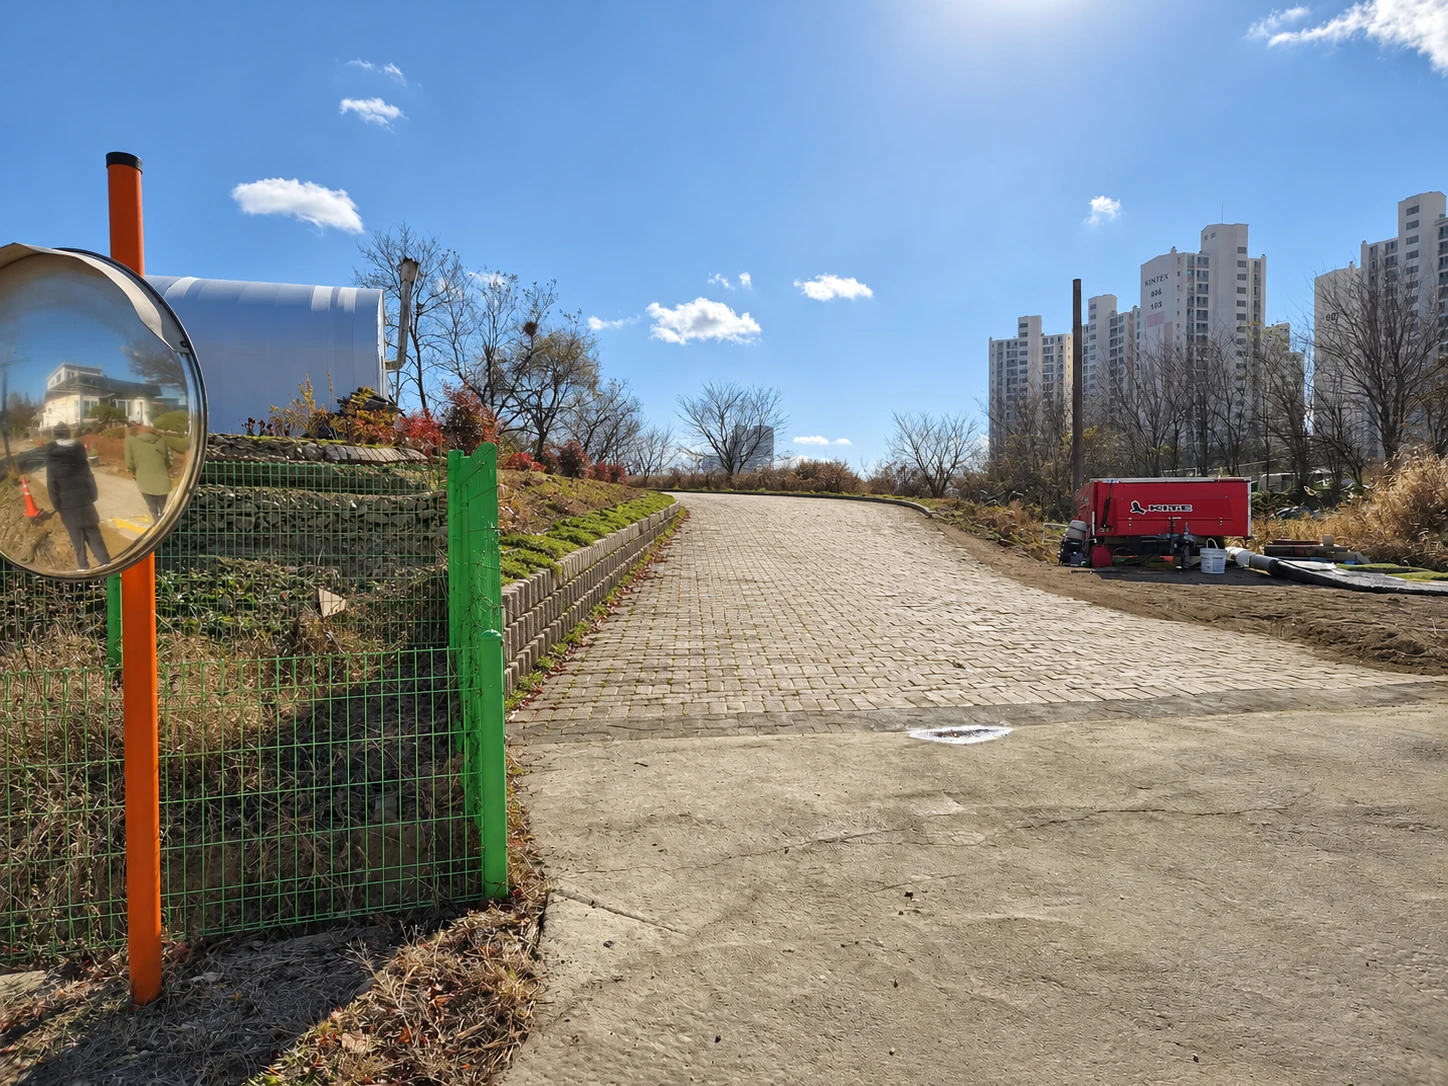
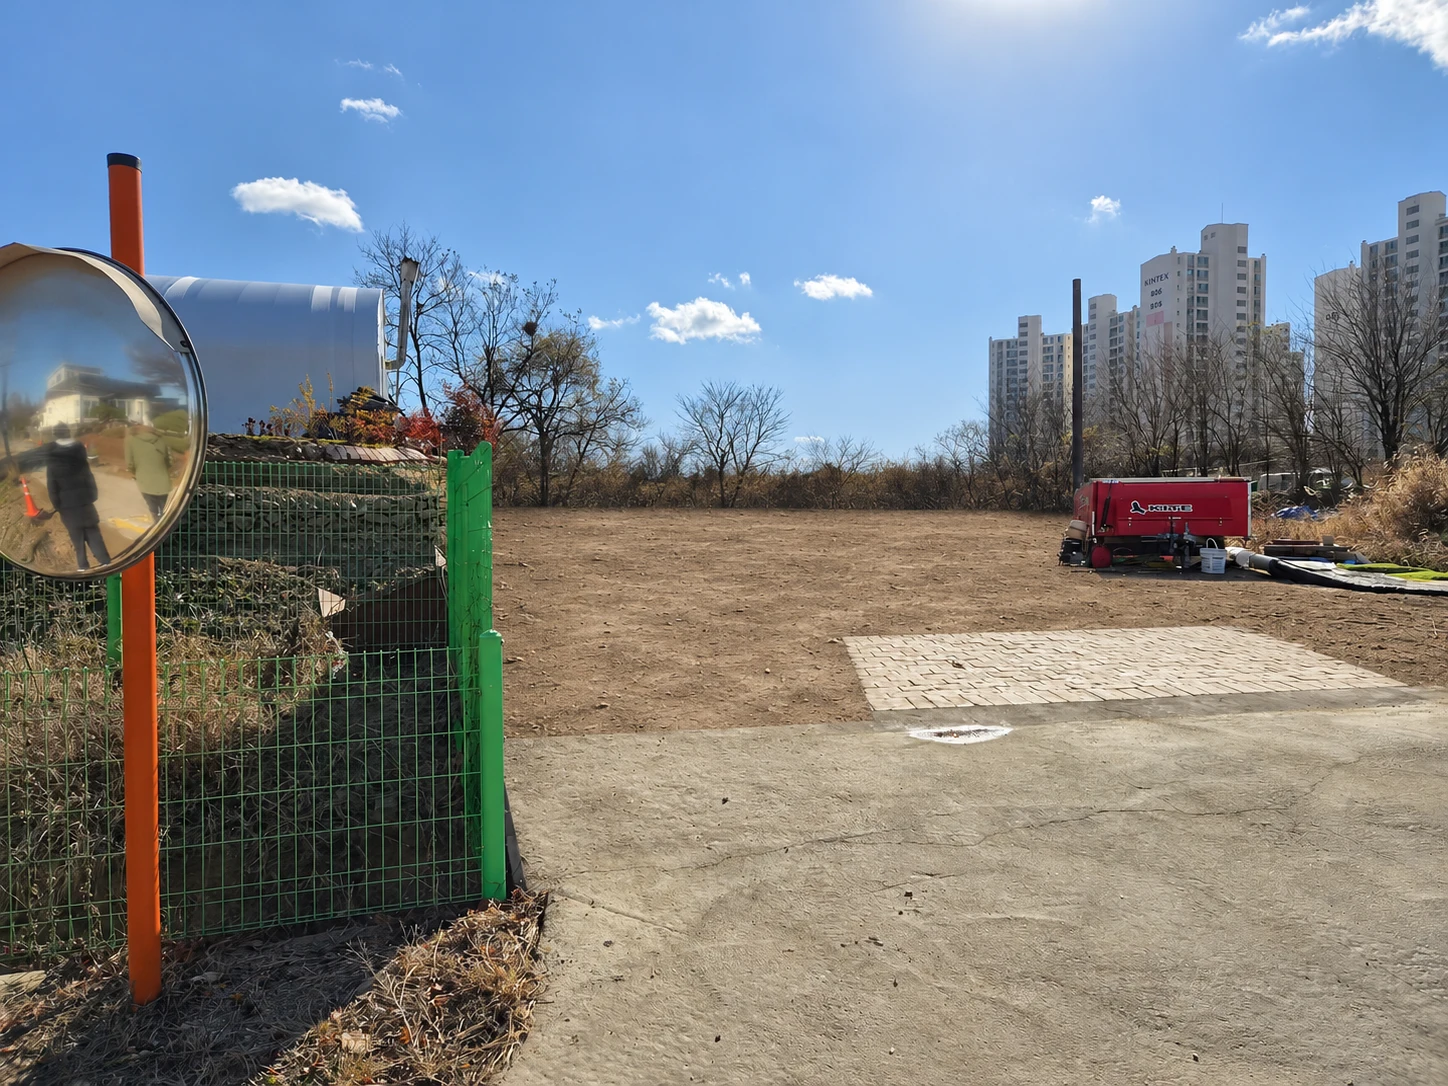
Correct upper entry terrain to level dirt

diff --git a/index.html b/index.html
@@ -1,3 +1,3 @@
-<!doctype html><html lang="ko"><head><meta charset="utf-8"><meta name="viewport" content="width=device-width,initial-scale=1,viewport-fit=cover"><meta name="theme-color" content="#e9e2d6"><title>iHKG · 길드하우스</title><link rel="stylesheet" href="style.css"><link rel="stylesheet" href="camp-map.css?v=20261127-travel"><link rel="stylesheet" href="shop.css?v=20261117-shop2"><link rel="stylesheet" href="signup.css?v=20261125-3"><link rel="stylesheet" href="event-layout.css?v=calendar1"></head><body><div id="app"><header><button id="mode" aria-label="지도와 목록 전환">☷</button><strong id="title">길드하우스 · Center Camp</strong><button id="filter" aria-label="필터">☷</button></header><main id="main"></main><div id="floating"><button id="fav" aria-label="즐겨찾기만 보기">♡</button></div><footer><nav aria-label="메인 메뉴"><button data-tab="map" aria-label="Map"><svg viewBox="0 0 24 24" aria-hidden="true"><path d="M3 5l6-2 6 2 6-2v16l-6 2-6-2-6 2ZM9 3v16M15 5v16"/></svg><small>Map</small></button><button data-tab="events" aria-label="Events"><svg viewBox="0 0 24 24" aria-hidden="true"><rect x="3" y="5" width="18" height="16" rx="2"/><path d="M7 3v4m10-4v4M3 10h18m-13 4h2m3 0h2m-7 3h2"/></svg><small>Events</small></button><button data-tab="shop" aria-label="Shop"><svg viewBox="0 0 24 24" aria-hidden="true"><path d="M5 8h14l2 13H3ZM8 9V6a4 4 0 0 1 8 0v3"/></svg><small>Shop</small></button><button data-tab="more" aria-label="More">•••<small>More</small></button></nav></footer></div><dialog id="detail"><div id="detailbody"></div></dialog><script src="site-places.js"></script><script src="shop.js?v=20261126-led1"></script><script src="camp-map.js?v=20261127-travel"></script><script src="events-data.js?v=names7"></script><script src="signup-config.js?v=20261125-1"></script><script src="signup.js?v=20261125-confirm6"></script><script src="app.js?v=events-byline2"></script></body></html>
+<!doctype html><html lang="ko"><head><meta charset="utf-8"><meta name="viewport" content="width=device-width,initial-scale=1,viewport-fit=cover"><meta name="theme-color" content="#e9e2d6"><title>iHKG · 길드하우스</title><link rel="stylesheet" href="style.css"><link rel="stylesheet" href="camp-map.css?v=20261127-travel"><link rel="stylesheet" href="shop.css?v=20261117-shop2"><link rel="stylesheet" href="signup.css?v=20261125-3"><link rel="stylesheet" href="event-layout.css?v=calendar1"></head><body><div id="app"><header><button id="mode" aria-label="지도와 목록 전환">☷</button><strong id="title">길드하우스 · Center Camp</strong><button id="filter" aria-label="필터">☷</button></header><main id="main"></main><div id="floating"><button id="fav" aria-label="즐겨찾기만 보기">♡</button></div><footer><nav aria-label="메인 메뉴"><button data-tab="map" aria-label="Map"><svg viewBox="0 0 24 24" aria-hidden="true"><path d="M3 5l6-2 6 2 6-2v16l-6 2-6-2-6 2ZM9 3v16M15 5v16"/></svg><small>Map</small></button><button data-tab="events" aria-label="Events"><svg viewBox="0 0 24 24" aria-hidden="true"><rect x="3" y="5" width="18" height="16" rx="2"/><path d="M7 3v4m10-4v4M3 10h18m-13 4h2m3 0h2m-7 3h2"/></svg><small>Events</small></button><button data-tab="shop" aria-label="Shop"><svg viewBox="0 0 24 24" aria-hidden="true"><path d="M5 8h14l2 13H3ZM8 9V6a4 4 0 0 1 8 0v3"/></svg><small>Shop</small></button><button data-tab="more" aria-label="More">•••<small>More</small></button></nav></footer></div><dialog id="detail"><div id="detailbody"></div></dialog><script src="site-places.js"></script><script src="shop.js?v=20261126-led1"></script><script src="camp-map.js?v=20261127-upper-flat"></script><script src="events-data.js?v=names7"></script><script src="signup-config.js?v=20261125-1"></script><script src="signup.js?v=20261125-confirm6"></script><script src="app.js?v=events-byline2"></script></body></html>
 
 

diff --git a/camp-map.js b/camp-map.js
@@ -204,7 +204,7 @@ window.GuildMap = (() => {
   async function openCamp(id){
     if(id==='upper-entry'){
       modal(`<div class="camp-sheet-title"><span class="eyebrow">ENTRY</span><h2>위쪽 입구</h2></div>
-        <div class="camp-media"><img src="${new URL('media/upper-entry.webp',scriptBase)}" alt="초록색 울타리 옆으로 이어지는 위쪽 입구 진입로"></div>`);
+        <div class="camp-media"><img src="${new URL('media/upper-entry.webp?v=2',scriptBase)}" alt="초록색 울타리 옆으로 이어지는 위쪽 입구 진입로"></div>`);
       return;
     }
     if(id==='bridge'||id==='lower-entry'){
